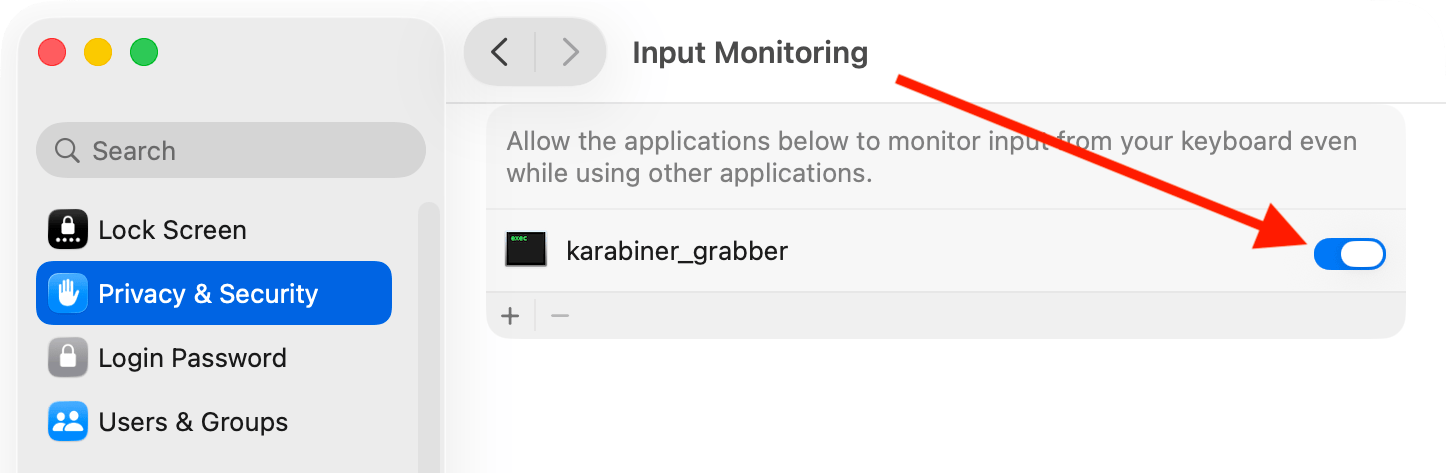
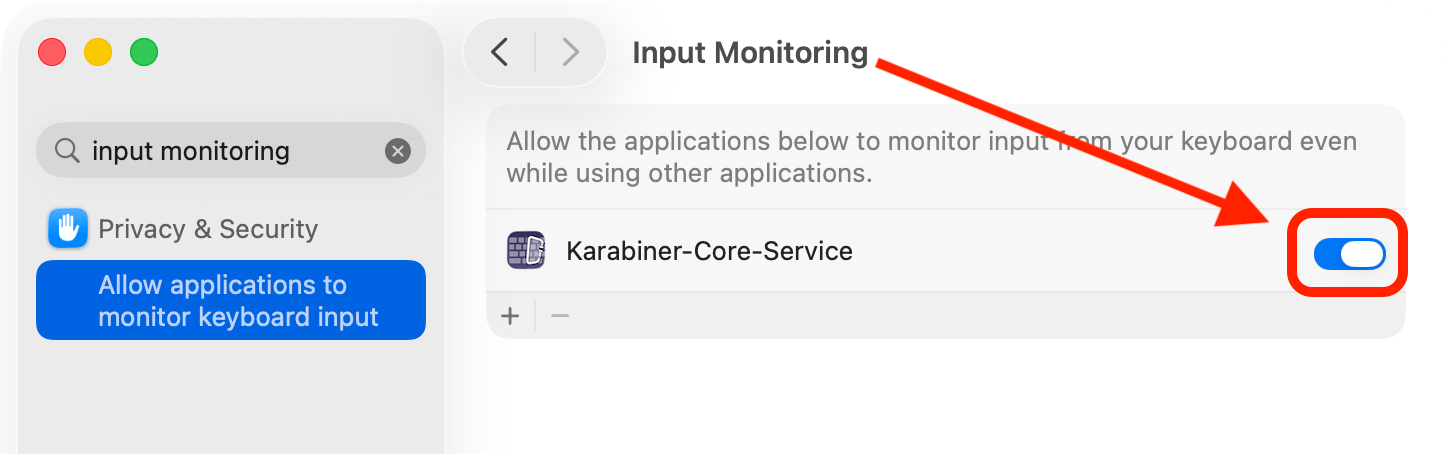
karabiner_grabber -> Karabiner-Core-Service

diff --git a/sites/karabiner-elements/content/en/docs/manual/misc/required-macos-settings/index.md b/sites/karabiner-elements/content/en/docs/manual/misc/required-macos-settings/index.md
@@ -19,7 +19,6 @@ However, we explain the macOS settings made during the initial setup of Karabine
 Karabier-Elements has processes running constantly in the background, that handle input events.
 You have to keep the background items enabled in `macOS System Settings > General > Login Items`.
 
-{{< local-image src="images/login-items@2x.png" >}}
 {{< local-image src="images/settings-services@2x.png" >}}
 
 {{% /alert %}}
@@ -38,22 +37,15 @@ You can enable it in `macOS System Settings > Privacy & Security > Input Monitor
 
 {{% /alert %}}
 
-{{% alert title="Troubleshooting" color="danger" %}}
-
-If you cannot find `karabiner_grabber` in the list, this is because you have not closed the following "Keystroke Receiving" dialogs.
-`karabiner_grabber` will be shown in the list after the dialogs are closed.
-
-If you don't see the dialog, it might be an issue with macOS not displaying it. Try restarting macOS.
-
-{{< local-image src="images/karabiner-grabber@2x.png" >}}
-
-{{% /alert %}}
-
 ---
 
 ## Allow system extension
 
 {{% alert color="primary" %}}
+
+You can approve the system extension in `macOS System Settings > Login Items & Extensions > Driver Extensions`.
+
+{{< local-image src="images/settings-driver-extensions@2x.png" >}}
 
 Karabiner-Elements uses the system extension to provide a virtual keyboard and mouse.
 You have to approve system extension before using it.
@@ -64,11 +56,5 @@ If `org.pqrs.Karabiner-DriverKit-VirtualHIDDevice` appears in the System Extensi
 {{< local-image src="images/system-extensions@2x.png" >}}
 
 Otherwise, you have to approve the system extension in macOS System Settings.
-
-### Approve system extension
-
-You can approve the system extension in `macOS System Settings > Login Items & Extensions > Driver Extensions`.
-
-{{< local-image src="images/settings-driver-extensions@2x.png" >}}
 
 {{% /alert %}}
